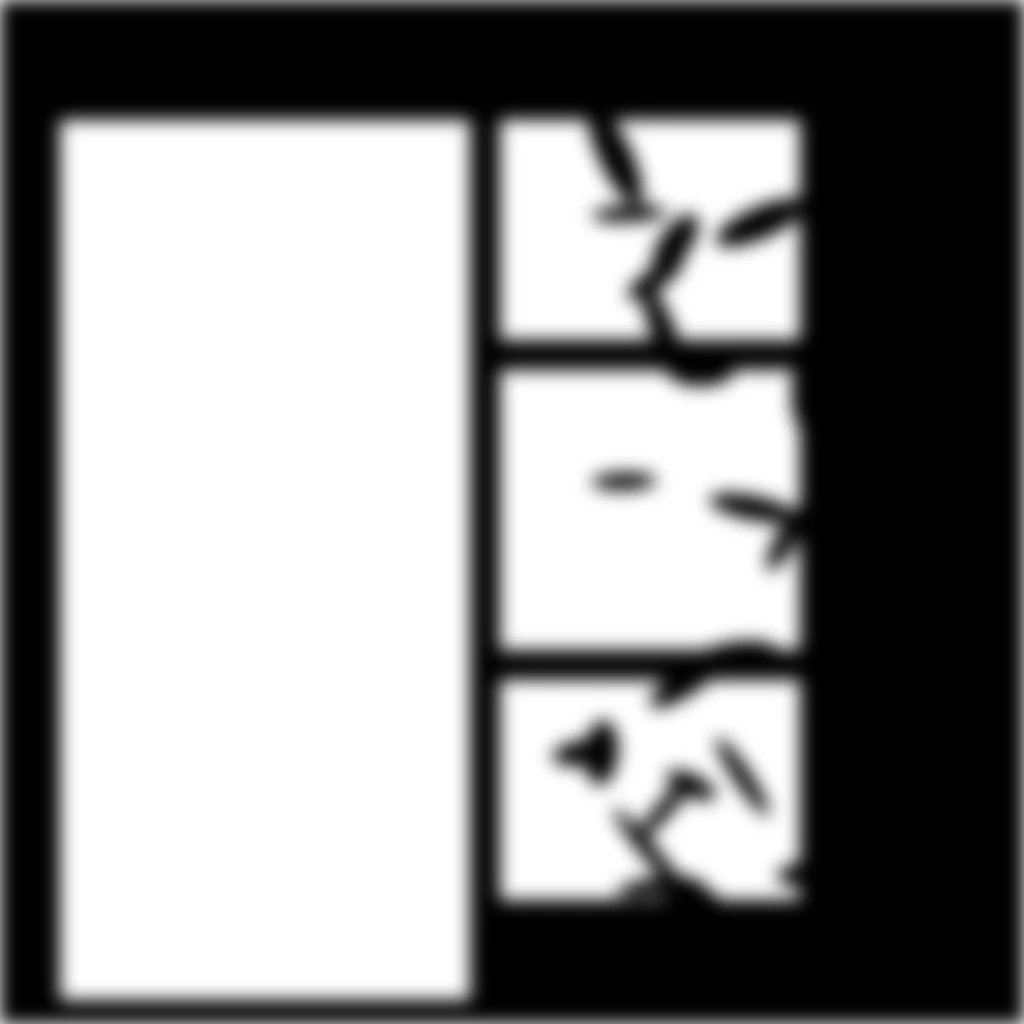
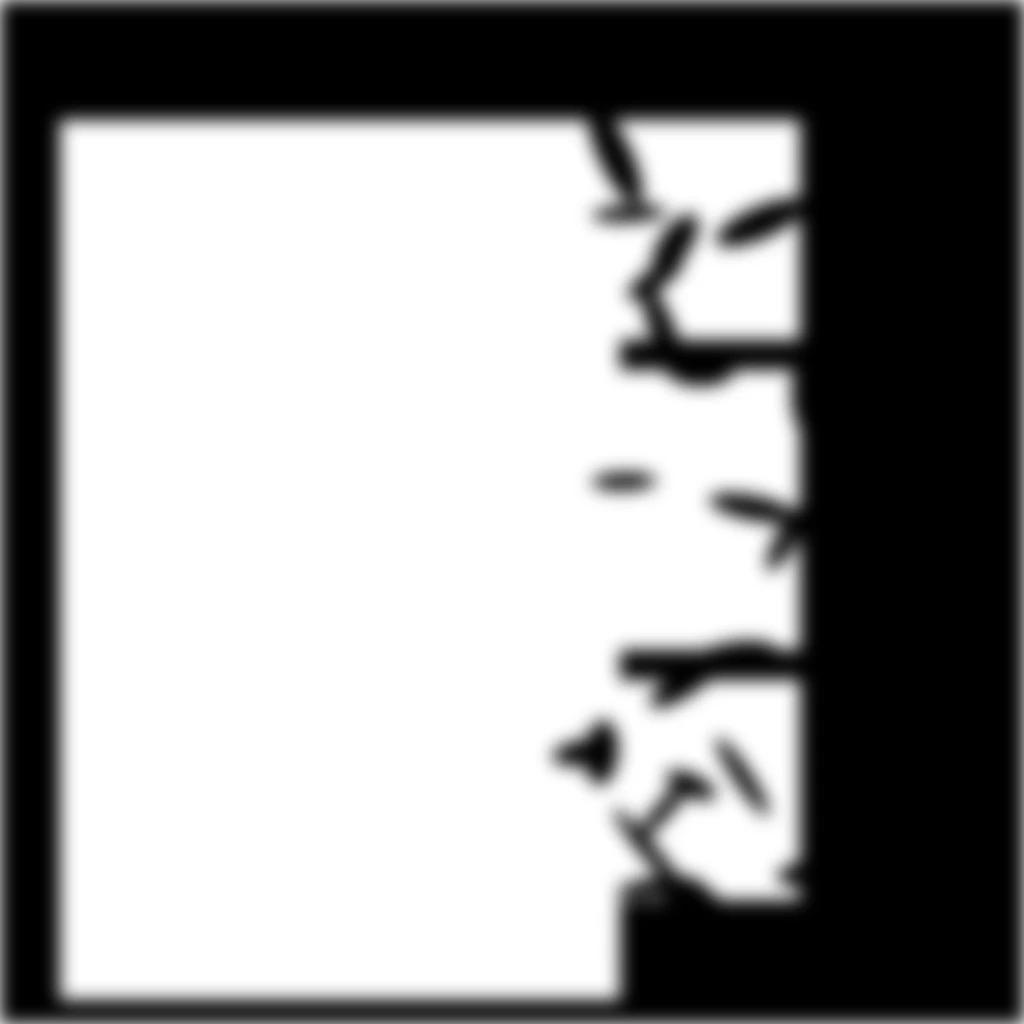
Contact r4: open the dusk mullion so the CTA group sits in one sunlit pane
Claude-Session: https://claude.ai/code/session_016nJieuj3hz1PRLzcMUTyK7

Changed region(s): [[0.4375, 0.0938, 0.625, 1.0]]

diff --git a/tools/bake/manifest.js b/tools/bake/manifest.js
@@ -513,9 +513,14 @@ export const TEXTURES = {
     },
   },
   // The dusk window, thrown at a grazing angle: the left column is one tall pane
-  // (both bars bridged), widened to the left, so the call to action sits in one
-  // long patch of sun; the right column's bars and leaves rake across the strip.
-  'gobo-dusk': { make: () => windowGobo({ rows: [220, 280, 220], bridges: [[0, 0], [0, 1]], open: [[60, 120, 110, 880], [170, 900, 300, 100]] }), quality: 0.9 },
+  // (both bars bridged), widened to the left and down, and the mullion and the
+  // near edge of the right column are opened too, so the links, the note, the
+  // star and the strip all sit in one long patch of sun; the right column's
+  // remaining bars and leaves rake across the wall beyond the strip.
+  'gobo-dusk': {
+    make: () => windowGobo({ rows: [220, 280, 220], bridges: [[0, 0], [0, 1]], open: [[60, 120, 110, 880], [170, 900, 300, 100], [470, 120, 150, 880]] }),
+    quality: 0.9,
+  },
 
   // --- the wall: about
   // The about window: the left column is one tall pane (both its bars gone) so
